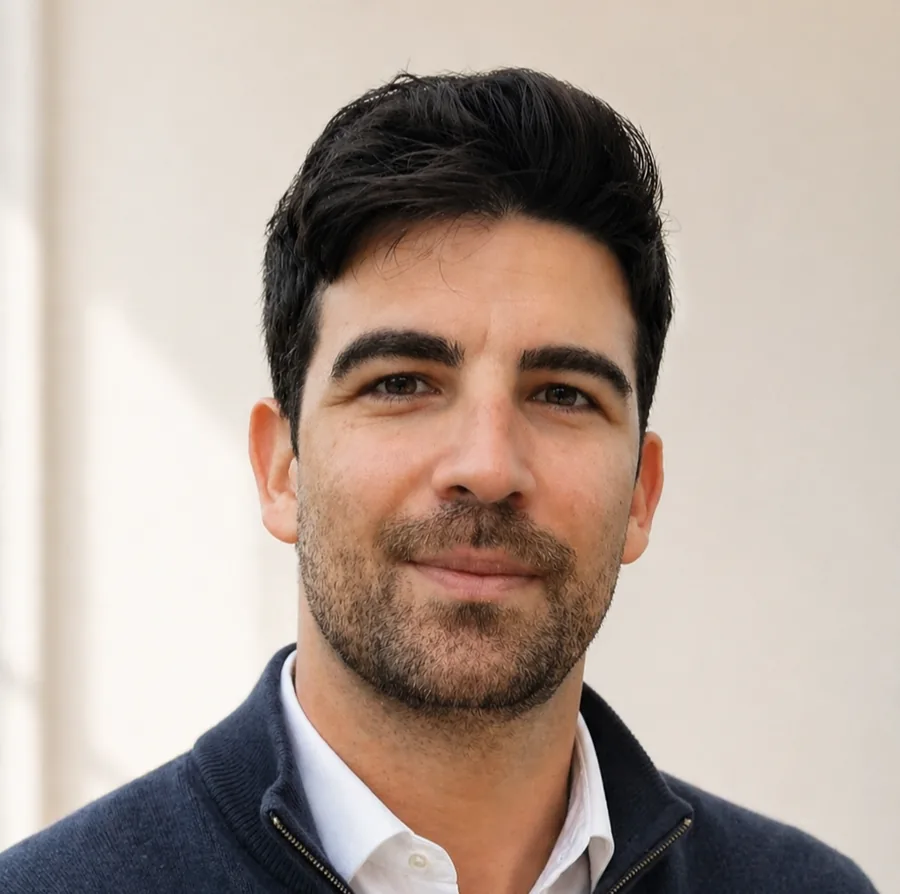
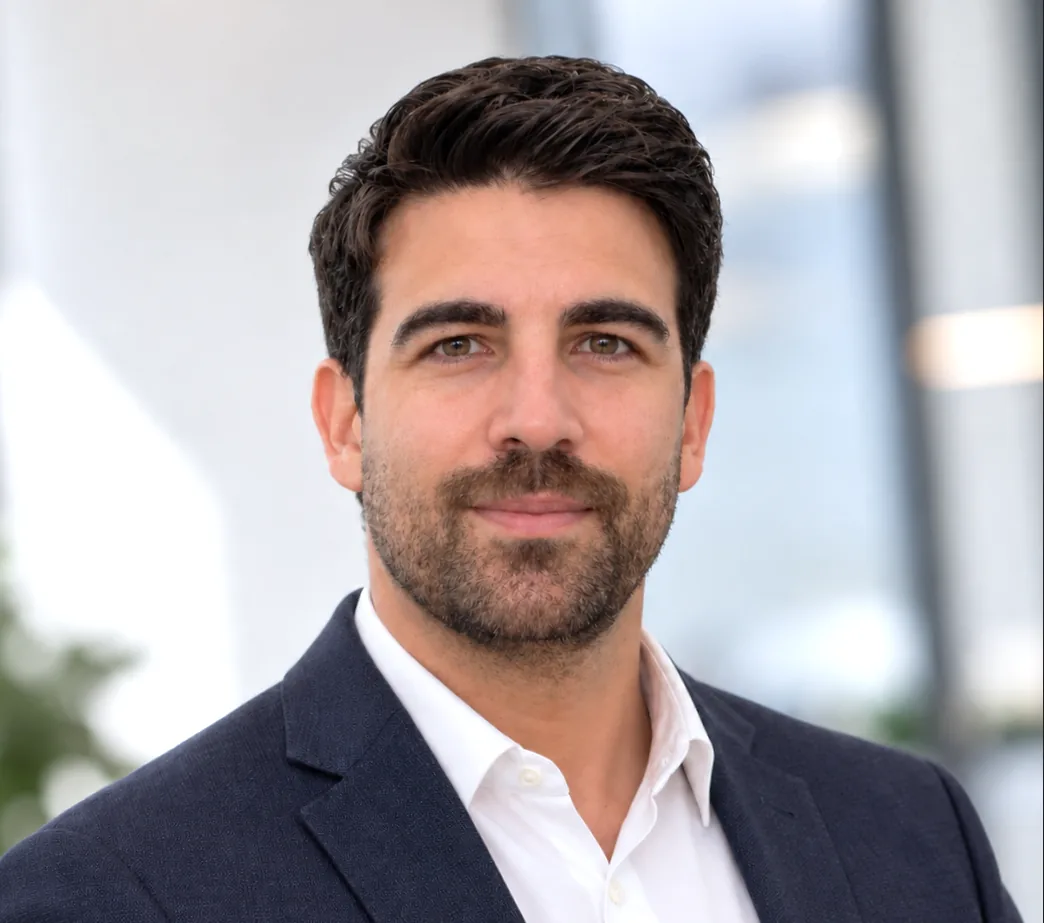
d

diff --git a/index.html b/index.html
@@ -970,7 +970,7 @@
             <div class="about-portrait-col">
                 <figure class="about-portrait">
                     <span class="ap-corner ap-tl" aria-hidden="true"></span><span class="ap-corner ap-tr" aria-hidden="true"></span><span class="ap-corner ap-bl" aria-hidden="true"></span><span class="ap-corner ap-br" aria-hidden="true"></span>
-                    <img src="founder_contact.webp" alt="Δημήτριος Μουδιώτης, Μηχανολόγος Μηχανικός" loading="lazy" width="900" height="894">
+                    <img src="founder_contact.webp?v=20261016" alt="Δημήτριος Μουδιώτης, Μηχανολόγος Μηχανικός" loading="lazy" width="1044" height="923">
                     <figcaption>
                         <strong data-i18n="about.pname">Δημήτριος Μουδιώτης</strong>
                         <span data-i18n="about.ptitle">Μηχανολόγος Μηχανικός ΑΠΘ, 3× MSc</span>
@@ -1616,7 +1616,7 @@
                 <p class="contact-lead" data-i18n="contact.lead">Είμαστε εδώ για κάθε ερώτηση ή ανάγκη. Επικοινωνήστε μαζί μας και θα εξετάσουμε προσωπικά την περίπτωσή σας.</p>
 
                 <div class="person-card">
-                    <img id="personPhoto" src="" loading="lazy" decoding="async" alt="Δημήτριος Μουδιώτης" class="person-photo" width="900" height="894">
+                    <img id="personPhoto" src="" loading="lazy" decoding="async" alt="Δημήτριος Μουδιώτης" class="person-photo" width="1044" height="923">
                     <div class="person-details">
                         <h3 id="personName" data-i18n="contact.person">Τεχνικό Γραφείο Μουδιώτης &amp; Συνεργάτες</h3>
                         <p data-i18n="contact.role">Μηχανολόγος Μηχανικός ΑΠΘ, 3× MSc | Έδρα Αθήνα - Θεσσαλονίκη | Εξυπηρέτηση Πανελλαδικά και εντός Ε.Ε.</p>

diff --git a/en/index.html b/en/index.html
@@ -847,7 +847,7 @@
             <div class="about-portrait-col">
                 <figure class="about-portrait">
                     <span class="ap-corner ap-tl" aria-hidden="true"></span><span class="ap-corner ap-tr" aria-hidden="true"></span><span class="ap-corner ap-bl" aria-hidden="true"></span><span class="ap-corner ap-br" aria-hidden="true"></span>
-                    <img src="../founder_contact.webp" alt="Dimitrios Moudiotis, Mechanical Engineer" loading="lazy" width="900" height="894">
+                    <img src="../founder_contact.webp?v=20261016" alt="Dimitrios Moudiotis, Mechanical Engineer" loading="lazy" width="1044" height="923">
                     <figcaption>
                         <strong data-i18n="about.pname">Dimitrios Moudiotis</strong>
                         <span data-i18n="about.ptitle">Mechanical Engineer AUTH, 3× MSc</span>
@@ -1493,7 +1493,7 @@
                 <p class="contact-lead" data-i18n="contact.lead">We're here for any question or need. Get in touch and we will look at your case personally.</p>
 
                 <div class="person-card">
-                    <img id="personPhoto" src="" loading="lazy" decoding="async" alt="Dimitrios Moudiotis" class="person-photo" width="900" height="894">
+                    <img id="personPhoto" src="" loading="lazy" decoding="async" alt="Dimitrios Moudiotis" class="person-photo" width="1044" height="923">
                     <div class="person-details">
                         <h3 id="personName" data-i18n="contact.person">Moudiotis &amp; Associates Technical Office</h3>
                         <p data-i18n="contact.role">Mechanical Engineer AUTH, 3× MSc | Based in Athens - Thessaloniki | Serving all of Greece and the EU</p>

diff --git a/config.js b/config.js
@@ -44,7 +44,7 @@ window.SITE_CONFIG = {
     assets: {
         logo:         '/logo-192.webp',
         photo:        '/founder.webp',
-        contactPhoto: '/founder_contact.webp',
+        contactPhoto: '/founder_contact.webp?v=20261016',
         heroSlides:   [],
     },
 
